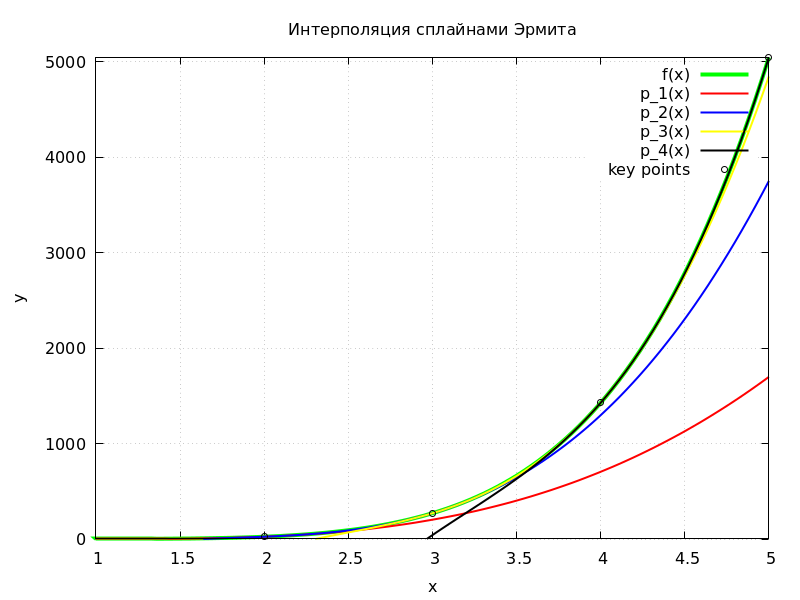
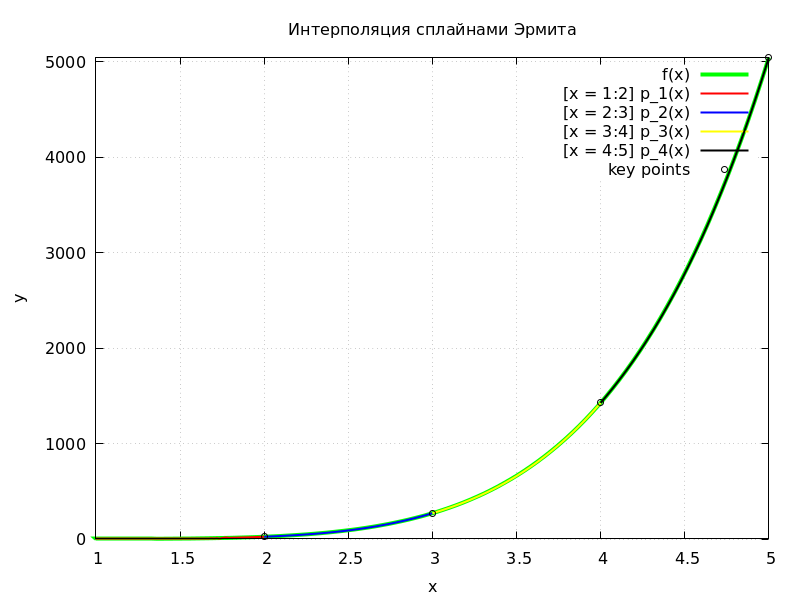
как Вам будет угодно

diff --git a/sem_6/2/main.cpp b/sem_6/2/main.cpp
@@ -2,6 +2,8 @@
 exp(x) / (2x) + x^5 Log(x) , 
 ( её производная равна exp(x) * (x - 1) / (2x^2) + x^4 (5 Log(x) + 1) )
 четвертая производная: (12 E^x)/x^5 - (12 E^x)/x^4 + (6 E^x)/x^3 - (2 E^x)/x^2 + E^x/(2 x) + 154 x + 120 x Log[x]
+пятая производная: 274 - (60 E^x)/x^6 + (60 E^x)/x^5 - (30 E^x)/x^4 + (10 E^x)/x^3 - (
+ 5 E^x)/(2 x^2) + E^x/(2 x) + 120 Log[x]
 проходящую через точки с координатами 
 x = {1, 2, 3, 4, 5} , 
 найти максимальное отклонение интерполяции от этой функции 
@@ -90,15 +92,17 @@ int main(void){
     scriptFile << "set yrange[f(1) : f(5)]\n";
     scriptFile << "set title 'Интерполяция сплайнами Эрмита'\n";
     scriptFile << "plot f(x) lw 4 lc rgb 'green',\
-                        p_1(x) lw 2 lc rgb 'red',\
-                        p_2(x) lw 2 lc rgb 'blue',\
-                        p_3(x) lw 2 lc rgb 'yellow',\
-                        p_4(x) lw 2 lc rgb 'black',\
+                        [x = 1:2] p_1(x) lw 2 lc rgb 'red',\
+                        [x = 2:3] p_2(x) lw 2 lc rgb 'blue',\
+                        [x = 3:4] p_3(x) lw 2 lc rgb 'yellow',\
+                        [x = 4:5] p_4(x) lw 2 lc rgb 'black',\
                         'data.txt' using 1:2 with points title 'key points' lc rgb 'black'\n";
     scriptFile.close();
 
     system("gnuplot plot_script.gp");
 
+    // FindMaximum[{274 - (60 E^x)/x^6 + (60 E^x)/x^5 - (30 E^x)/x^4 + (10 E^x)/x^3 - (5 E^x)/(2 x^2) + E^x/(2 x) + 120 Log[x], 1 <= x <= 5}, x]
+    // {474.161, {x -> 5.}}
     x = 5;
     double max_value = exp(x)*(12/pow(x, 5) - 12/pow(x, 4) + 6/pow(x, 3) - 2/pow(x, 2) + 1/(2 * x)) + 154 * x + 120 * x * log(x);
     double max_deviation = max_value / (4*3*2*2*2*2*2);
